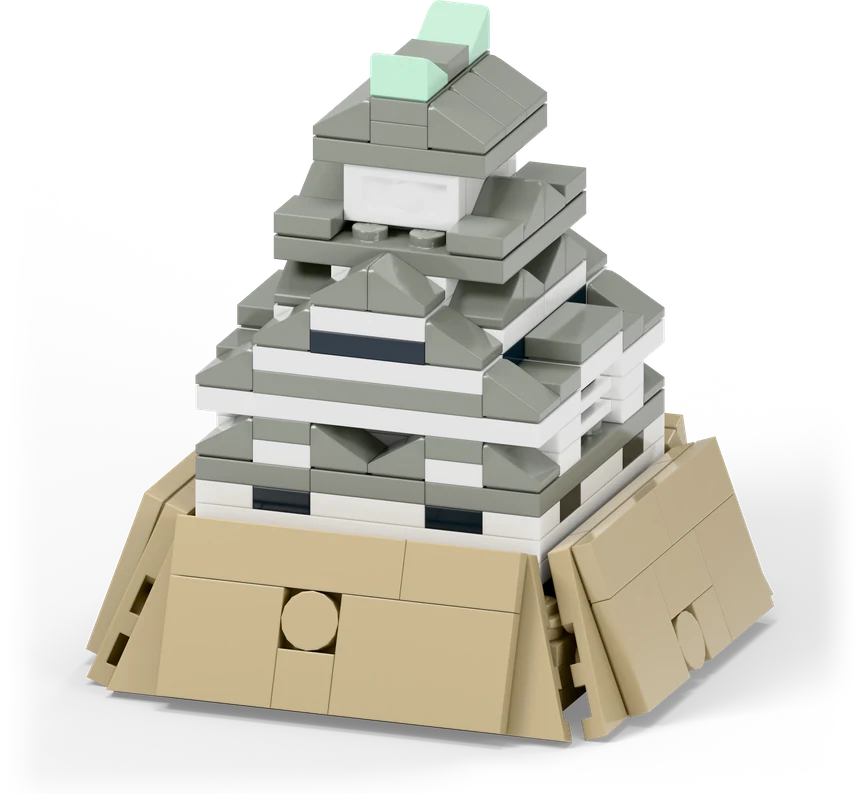
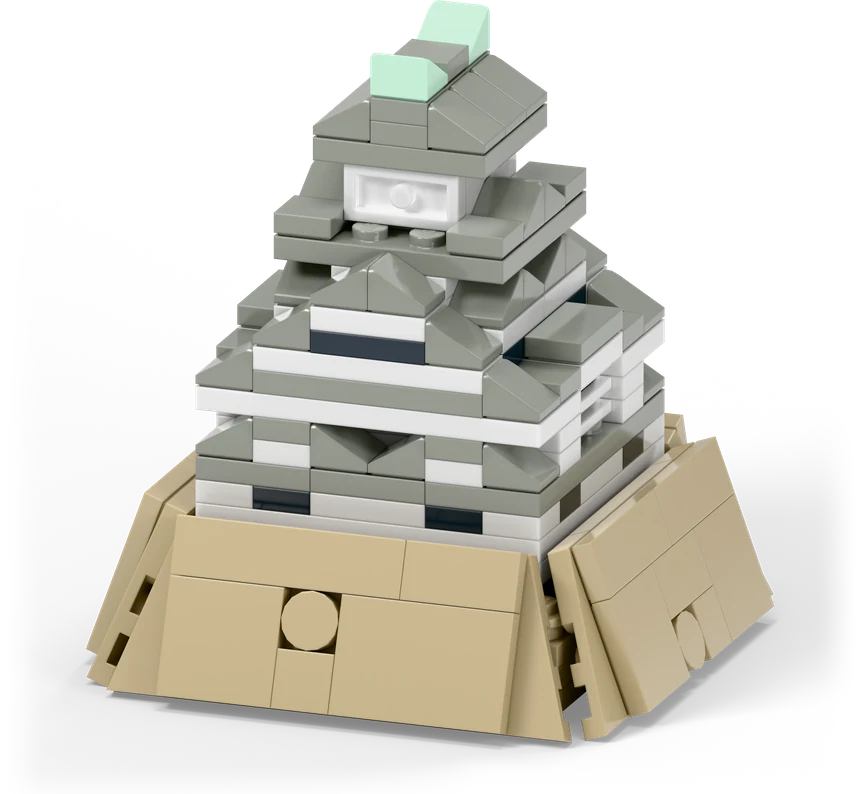
作品の図を、白い部品の段差が潰れない設定で描き直したものに差し替える
白（LDraw 15）の反射率を 0.65→0.42、赤（4）を 0.4、仕上げの白の上限を 232→250 にした Cycles レンダー
（照明と暗部の持ち上げは前のまま）から、透過 WebP と renders.js を作り直した。
設定と比べた版は ~/Documents/mol-redesign/elevations/white-v5-test/、前の版は elevations/_archive/cycles-v4-white065/。
renders.js の変化はベッドの高さ 10.379→10.382 cm（影の端の切り落とし位置）だけ。

diff --git a/src/app/renders.js b/src/app/renders.js
@@ -145,7 +145,7 @@ export const RENDERS = {
   },
   "bed": {
     "w_cm": 12.058,
-    "h_cm": 10.379,
+    "h_cm": 10.382,
     "proj_w_cm": 10.766,
     "margin_cm": 0.646,
     "ref_cm": {
